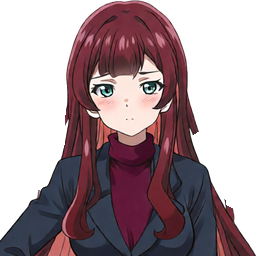
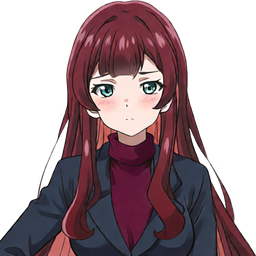
art: adopt approved Onoe portrait v2 without square hair cut

diff --git a/tests/OnoeAlphaCleanup.test.ts b/tests/OnoeAlphaCleanup.test.ts
@@ -7,6 +7,7 @@ type CleanupAsset = {
   path: string; mask: string; outputSHA256: string; sourceSHA256: string;
   rgbSHA256: string; protectedPixelsSHA256: string;
   width: number; height: number; alphaChanges: number; bounds: number[];
+  visualApproval: string;
 };
 const manifest: { format: string; assets: CleanupAsset[] } = JSON.parse(
   readFileSync('docs/art/onoe-alpha-2026-10-01/qa.json', 'utf8'),
@@ -16,6 +17,7 @@ const sha = (bytes: Buffer) => createHash('sha256').update(bytes).digest('hex');
 describe('Onoe shoulder-strand cleanup preserves approved artwork', () => {
   it('covers exactly five expressions, Pose B and the portrait', () => {
     expect(manifest.format).toBe('upds-onoe-alpha-cleanup-v1');
+    expect(manifest.assets.every(a => a.visualApproval === 'user-approved-2026-10-01')).toBe(true);
     expect(manifest.assets.map(a => a.path).sort()).toEqual([
       'public/assets/characters/onoe/medallions/portrait_neutral_256.png',
       'public/assets/characters/onoe/poses/pose_b_evidence_bag.png',
@@ -63,5 +65,11 @@ describe('Onoe shoulder-strand cleanup preserves approved artwork', () => {
     const source = readFileSync('docs/art/onoe-alpha-2026-10-01/source-surprised.png');
     const asset = manifest.assets.find(a => a.path.endsWith('/frame-surprised.png'));
     expect(sha(source)).toBe(asset?.sourceSHA256);
+  });
+  it('keeps the colored portrait strand where the rejected v1 had a square cut', () => {
+    const image = decodeRgbaPng(readFileSync('public/assets/characters/onoe/medallions/portrait_neutral_256.png'));
+    for (const [x, y, alpha] of [[199, 135, 224], [211, 165, 222], [221, 185, 255]]) {
+      expect(image.pixels[(y * image.width + x) * 4 + 3]).toBe(alpha);
+    }
   });
 });

diff --git a/tests/CharacterArchiveAdoption.test.ts b/tests/CharacterArchiveAdoption.test.ts
@@ -12,10 +12,10 @@ import {
 // Provenance: docs/reviews/MAYU_V7_INTEGRATION_2026-10-01.md
 // docs/reviews/EMI_EYE_FIX_2026-10-01.md, MIKU_ALPHA_CLEANUP_2026-10-01.md
 // docs/reviews/FACE_REPAIR_BATCH_2026-10-01.md and ONOE_ALPHA_CLEANUP_2026-10-01.md.
[2 lines of base64/hex data omitted]
 const characterDigests: Readonly<Record<ProductionCharacterKey, string>> = {
[6 lines of base64/hex data omitted]

diff --git a/docs/reviews/ONOE_ALPHA_CLEANUP_2026-10-01.md b/docs/reviews/ONOE_ALPHA_CLEANUP_2026-10-01.md
@@ -1,7 +1,7 @@
 # G4a-ONOE-ALPHA — очистка прядей у плеч Оноэ
 
-Дата: 2026-10-01. Статус: review, кандидат отдельного PR; визуальная
-приёмка новой очистки и просмотр в игре/на телефоне ещё требуются.
+Дата: 2026-10-01. Статус: review; все семь изображений визуально приняты,
+проверка в игре/на телефоне остаётся. Обновлён существующий PR #318.
 Baseline: `dda9d1982b5d8241fb1136a2f6285ef72b8207bd`, merged PR #317.
 Пользователь утвердил все шесть исправлений лиц #317 до начала этого среза.
 
@@ -9,6 +9,13 @@ Baseline: `dda9d1982b5d8241fb1136a2f6285ef72b8207bd`, merged PR #317.
 
 Заменяются только семь существующих PNG Оноэ: пять эмоций Pose A,
 `poses/pose_b_evidence_bag.png`, `medallions/portrait_neutral_256.png`.
+Пользователь принял шесть больших изображений, но отклонил агрессивную маску
+портрета v1 из-за угловатого среза. Утверждён портрет v2 с узкой очисткой:
+восстановлены 1091 alpha-пиксель относительно v1; удаляются только 384 исходных
+пикселя внешних нитей. Цветная прядь, лицо и исходный силуэт сохраняются.
[1 lines of base64/hex data omitted]
+[Сравнение original/rejected v1/accepted v2](../art/onoe-alpha-2026-10-01/portrait-review-v2.png).
+Остальные шесть PNG побитово совпадают с проверенным head #318 `18463a96`.
 Убраны внешние тонкие пряди/нитевидные края у плеч. Длинные основные волосы,
 палитра, лицо, исправленные бирюзовые глаза surprised и одежда не перерисованы.
 Использован согласованный способ Мику: детерминированные alpha-only маски,
@@ -37,9 +44,11 @@ Pose B на сером, portrait на тёмном фоне.
 не объявляя shoulder cleanup частью прежней face ROI.
 
 Остальные восемь character digests неизменны. Новый общий 63-asset digest:
[1 lines of base64/hex data omitted]
-Локально прошли 150 файлов / 742 теста, lint, TypeScript и production build;
[1 lines of base64/hex data omitted]
+До портрета v2 локально прошли 150 файлов / 742 теста, lint, TypeScript и build;
 character audit 22 теста, docs audit 11 тестов, inventory 0 path/decode errors.
+Для v2 прошли 150 файлов / 743 теста, lint, TypeScript и production build.
+Добавлен regression test на сохранение цветной пряди; требуется новый GitHub gate.
 Security audit: 0 high/critical, два moderate предупреждения в существующем
 Vitest toolchain; зависимости не менялись. Прежнее bundle >500 kB предупреждение остаётся.
 GitHub результаты ещё ожидаются. Linux WebKit
@@ -58,10 +67,13 @@ Quality gate `36876468122` passed; Chromium в Browser Gate `36876468100` passed
[1 lines of base64/hex data omitted]
 [Проверенный CI actual](../art/onoe-alpha-2026-10-01/linux-lineup-actual.png).
 Обновлён только digest, не assertion/порог и не trio snapshot.
-Нужен повторный GitHub gate; исходное падение не считается успешным.
+Повторный gate на head `18463a96` прошёл: Quality `36878165106`, Browser Gate
+`36878165117`, WebKit 33 passed без flaky. Это предыдущий head, до принятого портрета v2;
+для обновлённого PR запускаются новые проверки. Lineup digest не меняется второй раз:
+neutral/Pose B и положение персонажа остаются прежними.
 
 Просмотреть neutral и все четыре эмоции, Pose B и медальон на светлом/тёмном
 фоне; переключить эмоции в игре, проверить отсутствие скачков силуэта.
-Окончательное одобрение пользователем новой очистки не выводится из тестов.
-После её приёмки в очереди исходного арт-ревью остаются пять Pose A Рины
+Визуальное одобрение дано пользователем, а не выведено из тестов.
+В очереди исходного арт-ревью остаются пять Pose A Рины
 и три бонуса. Общая игровая/device проверка обязательна; G4a и KI-005 открыты.

diff --git a/docs/art/onoe-alpha-2026-10-01/README_RU.md b/docs/art/onoe-alpha-2026-10-01/README_RU.md
@@ -1,10 +1,12 @@
 # Оноэ — alpha-only очистка
 
-Кандидат для пользовательской приёмки, не новая генерация. Промпты не использованы.
+Все семь изображений визуально приняты пользователем; runtime/device QA ещё нужен.
+Портрет v2 принят вместо отклонённой угловатой маски v1. Промпты не использованы.
 Основа — merged #317, SHA `dda9d1982b5d8241fb1136a2f6285ef72b8207bd`.
 
 - `review.png`: увеличенное сравнение до/после у плеч.
 - `all-seven-review.png`: семь результатов на белом, сером и тёмном фоне.
+- `portrait-review-v2.png`: исходник, отклонённый v1 и принятый портрет v2.
 - `masks/`: белый сохраняет alpha, чёрный удаляет; RGB всегда неизменен.
 - `qa.json`: исходные/output hashes и независимые pixel signatures.
 - `source-surprised.png`: промежуточный утверждённый face repair #317,

diff --git a/docs/ROADMAP_RU.md b/docs/ROADMAP_RU.md
@@ -4,8 +4,9 @@ Technical product version: `0.26.0-dev`.
 
 2026-10-01 — `G4a-ONOE-ALPHA`: подготовлена очистка семи PNG Оноэ поверх
 merged #317. Только alpha у плеч; RGB, лица, длинные волосы и геометрия сохранены.
-Статус review, требуется пользовательская приёмка и просмотр в игре.
-После приёмки остаются пять Pose A Рины и три бонуса, затем общий runtime/device QA.
+Все семь изображений визуально приняты: шесть stage PNG и более узкая маска
+портрета v2. PR #318 обновлён; статус review до финальной проверки в игре/на телефоне.
+Остаются пять Pose A Рины и три бонуса, затем общий runtime/device QA.
 [Evidence](reviews/ONOE_ALPHA_CLEANUP_2026-10-01.md).
 
 2026-10-01 — `G4a-FACE-REPAIR`: подготовлен общий пакет шести правок лица:

diff --git a/docs/RELEASE_BACKLOG_RU.md b/docs/RELEASE_BACKLOG_RU.md
@@ -30,8 +30,9 @@ Status: **active release-planning source**, ANM-030B0H + ANM-030B0I + ANM-030B1B
 ### G4a — очередь после арт-ревью 2026-09-30
 
 2026-10-01 — `G4a-ONOE-ALPHA`: семь PNG очищены только alpha-масками;
-RGB и утверждённые лица сохранены. Кандидат review, ещё не визуально accepted.
-После приёмки остаются Рина Pose A (5) и бонусы (3), затем финальный игровой просмотр.
+RGB и утверждённые лица сохранены. Шесть stage PNG и портрет v2 визуально
+приняты пользователем; PR #318 обновлён. Статус review до runtime/device проверки.
+Остаются Рина Pose A (5) и бонусы (3), затем финальный игровой просмотр.
 [Evidence](reviews/ONOE_ALPHA_CLEANUP_2026-10-01.md).
 
 2026-10-01 — `G4a-FACE-REPAIR`: шесть expression PNG подготовлены одним пакетом;
